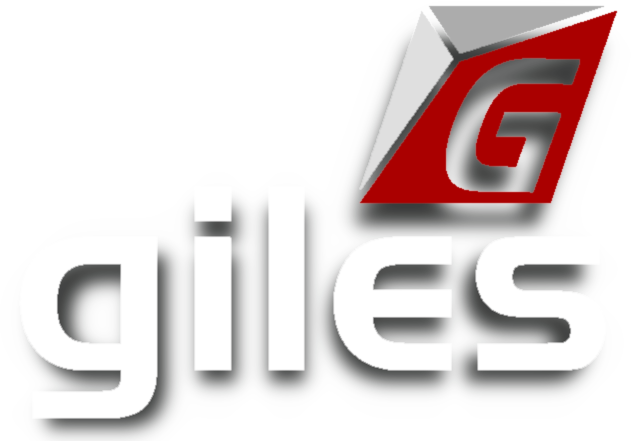
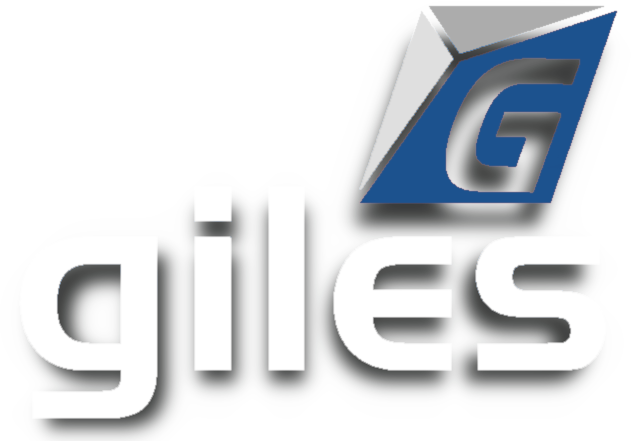
CSS Color Updates
All Blue Everything

Changed region(s): [[0.5658, 0.0295, 0.9828, 0.4717]]

diff --git a/baseStylesheet.css b/baseStylesheet.css
@@ -43,8 +43,8 @@ h1, p, a {
 }
 
 div.file-container {
-    border-top: 1px solid rgba(170, 0, 0, 0.8);
-    border-bottom: 1px solid rgba(170, 0, 0, 0.8);
+    border-top: 1px solid rgba(34, 100, 176, 0.8);
+    border-bottom: 1px solid rgba(34, 100, 176, 0.8);
     position: fixed;
     overflow-y:auto;
     background-color: rgba(0, 0, 0, 0.5);

diff --git a/stylesheet.css b/stylesheet.css
@@ -57,7 +57,7 @@ th {
     text-shadow: 2px 4px 15px rgba(0, 0, 0, 0.3);
     font-size: 30px;
     padding-top: 5px;
-    border-bottom: 1px solid rgba(170, 0, 0, 0.8); 
+    border-bottom: 1px solid rgba(34, 100, 176, 0.8); 
     border-bottom-width: medium;
 }
 

diff --git a/html/Facilities/Sub of Facilities/New folder/New folder.php b/html/Facilities/Sub of Facilities/New folder/New folder.php
@@ -30,10 +30,8 @@
         $tmp = explode('\\', dirname(__DIR__));
         $backPage = '\\' . end($tmp) . '.php';
     
-    echo "<h1>" . $backPage . "</h1>";
-    
     // if backPage would send you to html/html.php, instead send to the home page
-    if ($backPage == 'clarke-server/html/html.php'){
+    if ($backPage == '\html.php'){
         
         $backButton = 'http://clarke-server/index.php'; // path generation
         echo "<a class='button' href='".$backButton."'>Back</a>"; // back button

diff --git a/html/Administration/Customer Service/Letters & Statements/Letters & Statements.php b/html/Administration/Customer Service/Letters & Statements/Letters & Statements.php
@@ -31,7 +31,7 @@
         $backPage = '\\' . end($tmp) . '.php';
     
     // if backPage would send you to html/html.php, instead send to the home page
-    if ($backPage = '\\clarke-server\html\html.php'){
+    if ($backPage == '\html.php'){
         
         $backButton = 'http://clarke-server/index.php'; // path generation
         echo "<a class='button' href='".$backButton."'>Back</a>"; // back button
